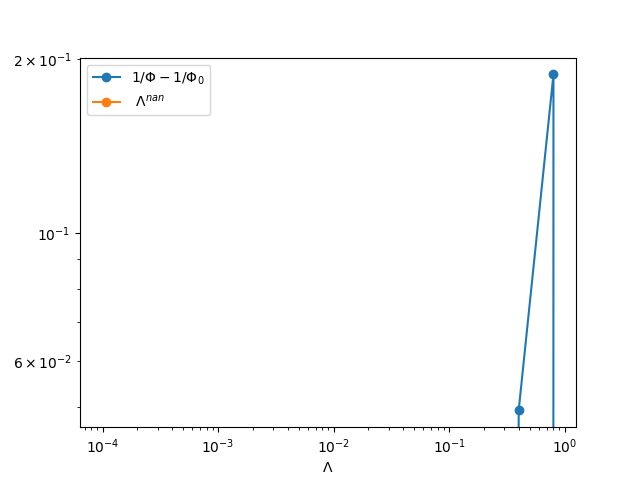
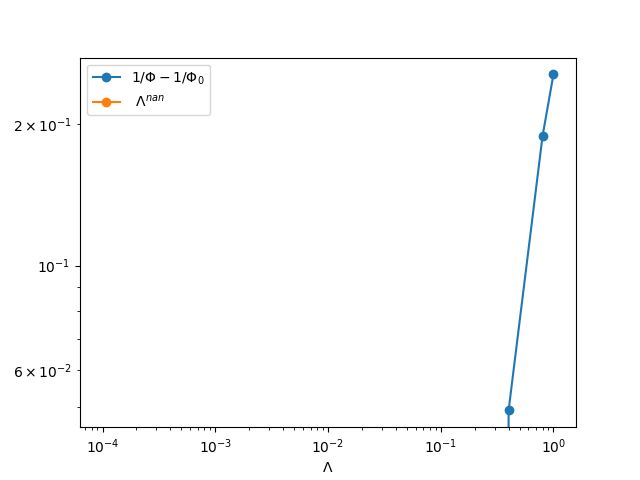
update

diff --git a/Ex1_square_top_snowflake/main_flux.py b/Ex1_square_top_snowflake/main_flux.py
@@ -76,7 +76,7 @@ PETSc.Sys.Print(f"Result for 0<Lambda<1000 saved to results/Phi_Lam_{nn}.csv ")
 # Region 1: Lambda <1 
 Phi=[]
 cc=[]
-LL = np.array([10**(-4),0.001,0.002,0.005,0.01,0.02,0.05,0.08,0.1,0.2,0.4,0.8,0.1])
+LL = np.array([10**(-4),0.001,0.002,0.005,0.01,0.02,0.05,0.08,0.1,0.2,0.4,0.8,1])
 for Lambda in LL:
   a = Constant(D)*dot(grad(u), grad(v))*dx+Constant(D)/Constant(Lambda)*u*v*ds(4)
   L = Constant(0)*v*dx
@@ -154,7 +154,7 @@ plt.loglog(LL,c*(LL)**alpha,marker='o')
 plt.legend(['$1/\Phi-1/\Phi_0$', '$~\Lambda^{{%s}}$' % (alpha)])
 plt.xlabel('$\Lambda$')
 plt.savefig(f"figures/Phi_Lam_R2_{nn}.png")
-PETSc.Sys.Print(f"Plot for 1<Lambda<L_p saved to figures/Phi_Lam_R2_{nn}.png ")
+PETSc.Sys.Print(f"Plot for 1<Lambda<L_p saved to figures/Phi_Lam_{nn}_R2.png ")
 with open(f'results/Phi_Lam_{nn}_R2.csv', 'w', newline='') as csvfile:
     fieldnames = ['Lambda', 'flux','DL_p/Lambda']
     writer = csv.DictWriter(csvfile, fieldnames=fieldnames)
